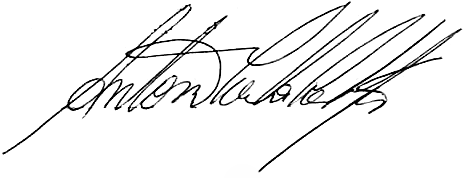
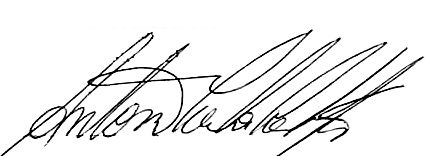
addddddddddddddddd

Changed region(s): [[0.0, 0.0, 1.0, 1.0], [0.7647, 0.8718, 0.7953, 0.9231], [0.0, 0.8205, 0.0306, 0.8718]]

diff --git a/lib/buildContractPDF.ts b/lib/buildContractPDF.ts
@@ -57,7 +57,7 @@ function cloneAndClean(contractElement: HTMLElement): HTMLElement {
 // ─────────────────────────────────────────────────────────────────────────────
 async function captureElementToPDFBase64(
   element: HTMLElement,
-  safeMarginMm = 15.3
+  safeMarginMm = 22
 ): Promise<string> {
   const domtoimage = (await import("dom-to-image-more")).default;
   const jsPDFModule = (await import("jspdf")).default;
@@ -172,7 +172,7 @@ export async function generateContractPDFFromVisualElement(
   const clone = cloneAndClean(contractElement);
   document.body.appendChild(clone);
   try {
-    return await captureElementToPDFBase64(clone, 15.3);
+    return await captureElementToPDFBase64(clone, 22);
   } finally {
     document.body.removeChild(clone);
   }
@@ -187,7 +187,7 @@ export async function openContractVisualElementForPrinting(
   const clone = cloneAndClean(contractElement);
   document.body.appendChild(clone);
   try {
-    const base64 = await captureElementToPDFBase64(clone, 15.3);
+    const base64 = await captureElementToPDFBase64(clone, 22);
     const binary = atob(base64);
     const bytes = new Uint8Array(binary.length);
     for (let i = 0; i < binary.length; i++) bytes[i] = binary.charCodeAt(i);
@@ -211,7 +211,7 @@ export async function downloadContractPDF(
   // mas precisamos appendá-lo ao body para o offsetWidth funcionar.
   document.body.appendChild(contractElement);
   try {
-    const base64 = await captureElementToPDFBase64(contractElement, 15.3);
+    const base64 = await captureElementToPDFBase64(contractElement, 22);
     const binary = atob(base64);
     const bytes = new Uint8Array(binary.length);
     for (let i = 0; i < binary.length; i++) bytes[i] = binary.charCodeAt(i);
@@ -416,7 +416,7 @@ const preloadSignatureImages = async (): Promise<{
   [key: string]: string;
 }> => {
   const signatures: { [key: string]: string } = {};
-  const paths = ["/assinatura1.png", "/assinatura2.png", "/assinatura3.png"];
+  const paths = ["/assinatura1.png", "/assinatura4.png", "/assinatura3.png"];
   
   for (const path of paths) {
     try {
@@ -436,7 +436,7 @@ const injectSignaturesToElement = (
   sigs: { [key: string]: string }
 ): void => {
   const images = element.querySelectorAll(
-    'img[src="/assinatura1.png"], img[src="/assinatura2.png"], img[src="/assinatura3.png"]'
+    'img[src="/assinatura1.png"], img[src="/assinatura4.png"], img[src="/assinatura3.png"]'
   );
   
   images.forEach((img) => {
@@ -561,7 +561,7 @@ export async function generateContractPDFBase64(
     console.error("Erro ao gerar PDF com dom-to-image, usando fallback:", err);
     const [s1, s2, s3] = await Promise.all([
       loadImageAsBase64("/assinatura1.png"),
-      loadImageAsBase64("/assinatura2.png"),
+      loadImageAsBase64("/assinatura4.png"),
       loadImageAsBase64("/assinatura3.png"),
     ]);
     const pdf = new jsPDF("p", "mm", "a4");
@@ -987,8 +987,8 @@ function getContractHTML(contract: ContractData): string {
 
       <div style="margin-top: 32px; display: flex; gap: 24px;">
         <div style="flex: 1; display: flex; flex-direction: column;">
-          <div style="height: 60px; margin-bottom: 12px; display: flex; align-items: flex-end; justify-content: center;">
-            <img src="/assinatura2.png" alt="PROTECT" style="height: 100%; max-width: 95%; object-fit: scale-down;" crossorigin="anonymous" />
+          <div style="height: 60px; display: flex; margin-bottom: 40px; align-items: flex-end; justify-content: center;">
+            <img src="/assinatura4.png" alt="PROTECT" style="height: 100%; max-width: 95%; object-fit: scale-down;" crossorigin="anonymous" />
           </div>
           <div style="border-top: 1px solid #4b5563; padding-top: 8px;">
             <p style="margin: 0; font-weight: bold; font-size: 13px;">PROTECT CLUBE MINEIRO DE TIRO</p>
@@ -1254,7 +1254,7 @@ export function buildPDFContent(
   para("É EXPRESSAMENTE PROIBIDO O INGRESSO E A UTILIZAÇÃO DE ARMAS E MUNIÇÕES SEM PROCEDÊNCIA LEGAL E JUSTIFICADA.", { bold: true, size: 8.5 });
   para("Eu, que abaixo assino, declaro ter recebido instruções de segurança e ter tomado conhecimento das normas legais estabelecidas em legislação pertinente, assumindo o compromisso pela minha participação nas atividades e pela minha permanência nas dependências da PROTECT. Declaro, ainda, que não possuo registro de antecedentes criminais e que os dados constantes nesta ficha são verdadeiros. Declaro ter ciência da necessidade de cumprir a Lei nº 10.826/2003, Decreto nº 5.123/2004, R-105 do Exército Brasileiro e demais normas aplicáveis.", { size: 8.5 });
 
-  newPageIfNeeded(90);
+  newPageIfNeeded(110);
   y += 5;
   para("E, por estarem justas e contratadas, firmam o presente em 02 (duas) vias, na presença das testemunhas.");
   y += 6;

diff --git a/components/ContractModal.tsx b/components/ContractModal.tsx
@@ -444,11 +444,11 @@ export default function ContractModal({ isOpen, onClose }: ContractModalProps) {
               line-height: 1.6;
               color: #1f2937;
               background: white;
-              padding: 20px;
+              padding: 18mm;
             }
             
             @page {
-              margin: 15mm;
+              margin: 0;
               size: A4;
             }
             
@@ -672,6 +672,13 @@ export default function ContractModal({ isOpen, onClose }: ContractModalProps) {
             img[alt*="Assinatura"] {
               max-height: 60px;
               object-fit: contain;
+            }
+
+            /* Evita que o bloco de assinaturas quebre entre páginas */
+            .space-y-8 > div:last-child,
+            .grid.grid-cols-2 {
+              page-break-inside: avoid;
+              break-inside: avoid;
             }
           </style>
         </head>
@@ -1128,12 +1135,12 @@ export default function ContractModal({ isOpen, onClose }: ContractModalProps) {
           <div className="text-center">
             <div className="h-16 flex items-center justify-center">
               <img
-                src="/assinatura2.png"
+                src="/assinatura4.png"
                 alt="Assinatura PROTECT"
-                className="h-12 object-contain"
+                className="h-15 w-full object-contain"
               />
             </div>
-            <div className="border-t border-gray-400 pt-2">
+            <div className="">
               <p className="font-bold">PROTECT CLUBE MINEIRO DE TIRO</p>
               <p className="text-gray-500 text-[10px]">CNPJ: 01.244.200/0001-52</p>
               <p className="text-gray-500 text-[10px]">ANTONIO C. COSTA JUNIOR</p>
@@ -1158,10 +1165,10 @@ export default function ContractModal({ isOpen, onClose }: ContractModalProps) {
               <img
                 src="/assinatura1.png"
                 alt="Assinatura Testemunha 1"
-                className="h-12 object-contain"
+                className="h-16 object-contain"
               />
             </div>
-            <div className="border-t border-gray-400 pt-2">
+            <div className="">
               <p className="text-gray-500 text-[10px] font-semibold">
                 TESTEMUNHA 1
               </p>
@@ -1177,7 +1184,7 @@ export default function ContractModal({ isOpen, onClose }: ContractModalProps) {
                 className="h-12 object-contain"
               />
             </div>
-            <div className="border-t border-gray-400 pt-2">
+            <div className="">
               <p className="text-gray-500 text-[10px] font-semibold">
                 TESTEMUNHA 2
               </p>
